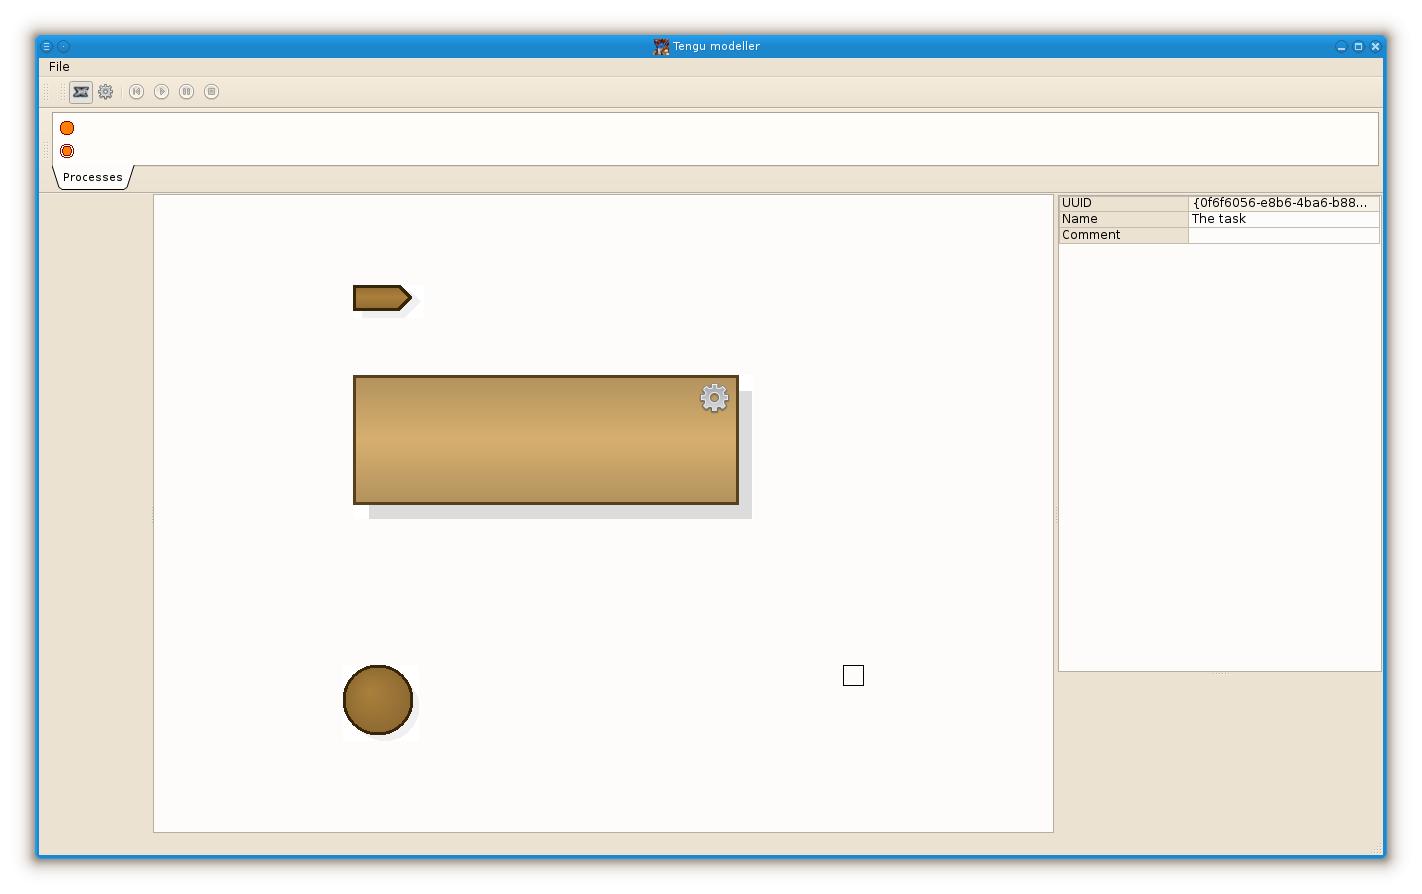
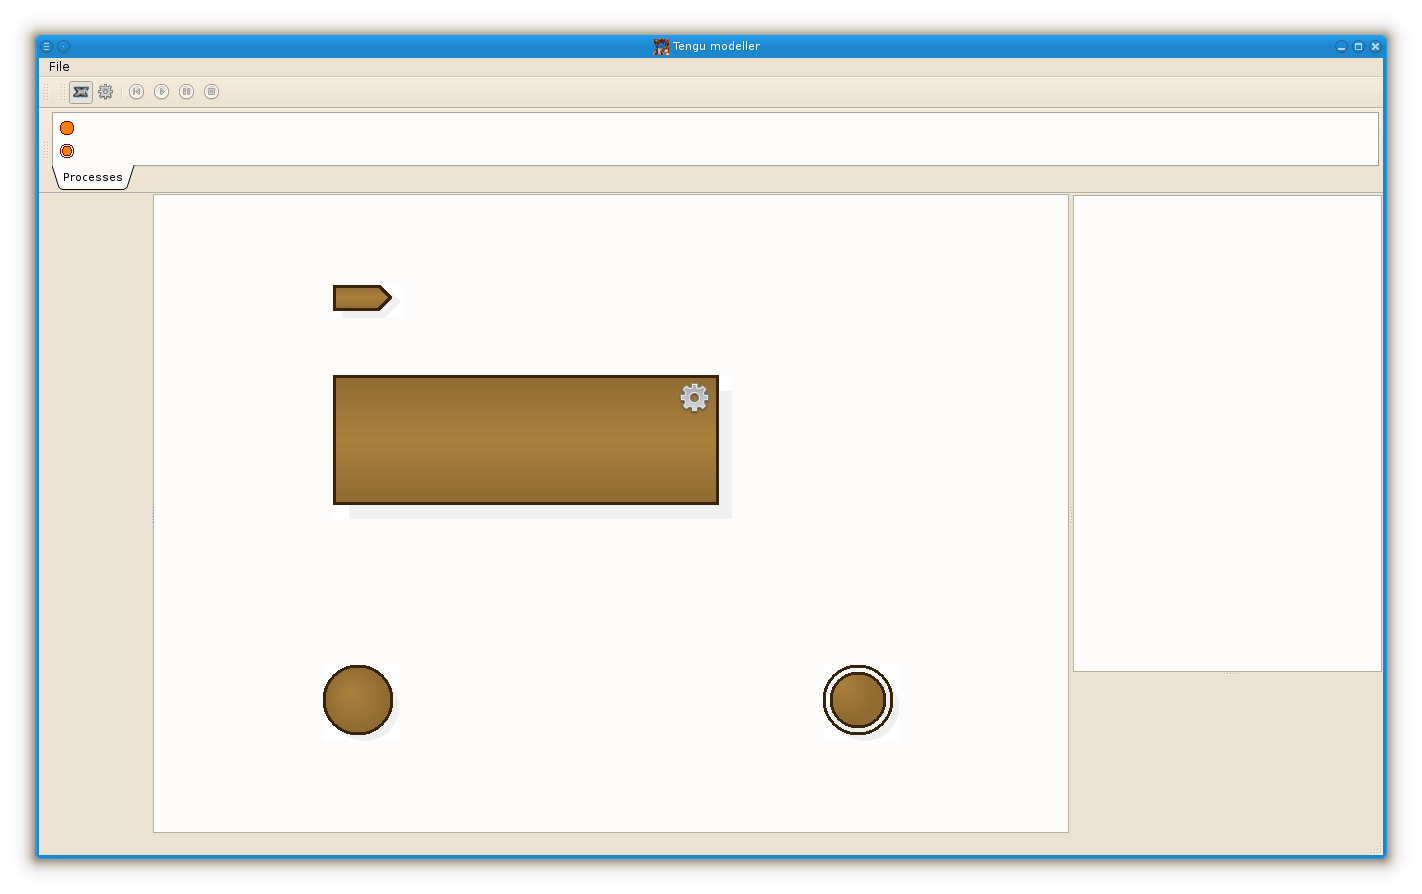
A stop process element was drawed

diff --git a/tengu/guis/tengu_modeller/src/schema/ProcessStopItem.cpp b/tengu/guis/tengu_modeller/src/schema/ProcessStopItem.cpp
@@ -20,8 +20,63 @@
 tengu::ProcessStopItem::ProcessStopItem ( tengu::ProcessStop * entity, QGraphicsItem* parent ) 
     : AbstractEntityItem ( entity, parent )
 {
-
+    _boundingRect = QRect(0,0,76,76);
 }
+
+// ********************************************************************************************************************
+// *                                                                                                                  *
+// *                                                The painting method.                                              *
+// * ---------------------------------------------------------------------------------------------------------------- *
+// *                                                  Метод рисования.                                                *
+// *                                                                                                                  *
+// ********************************************************************************************************************
+
+void tengu::ProcessStopItem::paint ( QPainter* painter, const QStyleOptionGraphicsItem* option, QWidget* widget ) {
+    
+    int shadowSize = 8;
+    
+    QPixmap pixmap( _boundingRect.width(), _boundingRect.height() );
+    QPainter pixPainter( & pixmap );
+    pixPainter.eraseRect( _boundingRect );
+    
+    // The shadow
+    // Тенька.
+    
+    QColor shadowColor = _processDiagram_shadowColor();
+    QPen shadowPen( shadowColor );
+    QBrush shadowBrush( shadowColor );
+    pixPainter.setBrush( shadowBrush );
+    pixPainter.setPen( shadowPen );
+    pixPainter.drawEllipse( shadowSize, shadowSize, _boundingRect.width() - shadowSize - 1, _boundingRect.height()-shadowSize-1 );
+    
+    // Stop process item element body.
+    // Тело элемента "конец процесса".
+    
+    QPen borderPen = _processDiagram_borderPen();
+    pixPainter.setPen( borderPen );
+    
+    int radius = qRound( ( _boundingRect.width() - shadowSize ) / 2.0 );    
+    radius -= 7;
+    QPoint center( radius, radius );
+    QPoint focal( radius-shadowSize, radius-shadowSize );
+    
+    // The circle around this element.
+    // Окружность вокруг элемента.
+    
+    pixPainter.setBrush( painter->brush() );
+    pixPainter.drawEllipse( 1, 1, _boundingRect.width() - shadowSize, _boundingRect.height() - shadowSize );
+    
+    QRadialGradient gradient( center, radius - 1, focal );
+    gradient.setColorAt(0, _processDiagram_brightFillColor() );
+    gradient.setColorAt(1, _processDiagram_darkFillColor() );
+    QBrush brush = QBrush( gradient );    
+    pixPainter.setBrush( brush );
+    pixPainter.drawEllipse( 8, 8, radius * 2, radius * 2 ) ; // _boundingRect.width() - shadowSize, _boundingRect.height() - shadowSize );
+        
+    painter->drawPixmap( 0, 0, pixmap );
+    
+}
+
 
 // ********************************************************************************************************************
 // *                                                                                                                  *

diff --git a/tengu/guis/tengu_modeller/src/schema/ProcessStopItem.h b/tengu/guis/tengu_modeller/src/schema/ProcessStopItem.h
@@ -21,6 +21,10 @@ namespace tengu {
             
             ProcessStopItem ( ProcessStop * entity = Q_NULLPTR, QGraphicsItem * parent = Q_NULLPTR );
             virtual ~ProcessStopItem();
+            
+        protected:
+            
+            void paint(QPainter * painter, const QStyleOptionGraphicsItem * option, QWidget * widget = Q_NULLPTR);
     };
 };
 

diff --git a/tengu/guis/tengu_modeller/README.ru.md b/tengu/guis/tengu_modeller/README.ru.md
@@ -7,6 +7,7 @@
 
 # Последние действия.
 
+- **17 июня 2017** Нарисован элемент "окончание процесса".
 - **16 июня 2017** SchemaView начала принимать событие таскания. Создан элемент "Начало процесса".
 - **14 июня 2017** Добавлен интерфейс хранимого объекта.
 - **13 июня 2017** Добавил событие перетаскивания в тулбар библиотеки, начал делать запись в монго. Фейковую задачу записал в монго.

diff --git a/tengu/guis/tengu_modeller/README.md b/tengu/guis/tengu_modeller/README.md
@@ -6,6 +6,7 @@ This is graphical tool for work with artifical intelligence models. At the momen
 
 # The latest operations.
 
+- **17 jun 2017** A stop process element was drawed.
 - **16 jun 2017** SchemaView does accept drag events. A start process element was created.
 - **14 jun 2017** The interface of the stored object was added.
 - **13 jun 2017** Add drag event for library toolbar, began to make a save in the mongo. A fake task was stored into mongoDB.
